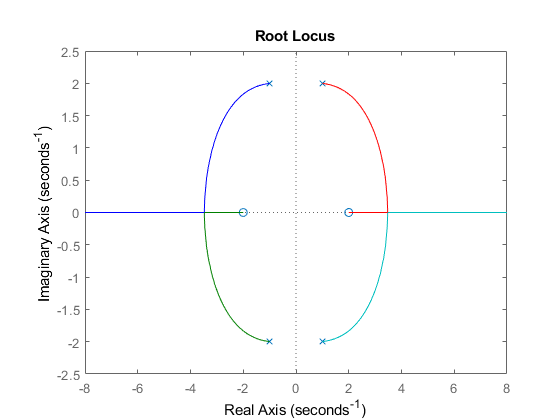
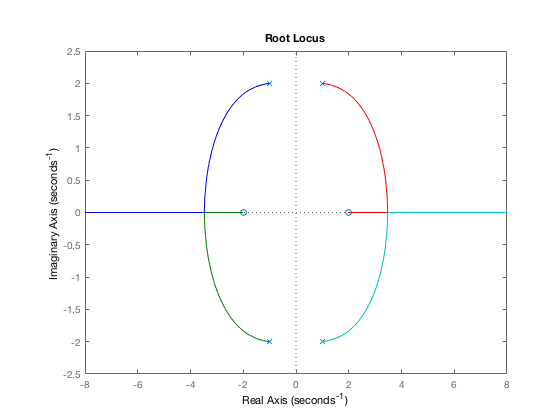
Changes

diff --git a/HW7/html/Problem_2.html b/HW7/html/Problem_2.html
@@ -6,7 +6,7 @@
    <!--
 This HTML was auto-generated from MATLAB code.
 To make changes, update the MATLAB code and republish this document.
-      --><title>Linear Control Systems Homework 7</title><meta name="generator" content="MATLAB 9.5"><link rel="schema.DC" href="http://purl.org/dc/elements/1.1/"><meta name="DC.date" content="2018-11-13"><meta name="DC.source" content="Problem_2.m"><style type="text/css">
+      --><title>Linear Control Systems Homework 7</title><meta name="generator" content="MATLAB 9.3"><link rel="schema.DC" href="http://purl.org/dc/elements/1.1/"><meta name="DC.date" content="2018-11-14"><meta name="DC.source" content="Problem_2.m"><style type="text/css">
 html,body,div,span,applet,object,iframe,h1,h2,h3,h4,h5,h6,p,blockquote,pre,a,abbr,acronym,address,big,cite,code,del,dfn,em,font,img,ins,kbd,q,s,samp,small,strike,strong,sub,sup,tt,var,b,u,i,center,dl,dt,dd,ol,ul,li,fieldset,form,label,legend,table,caption,tbody,tfoot,thead,tr,th,td{margin:0;padding:0;border:0;outline:0;font-size:100%;vertical-align:baseline;background:transparent}body{line-height:1}ol,ul{list-style:none}blockquote,q{quotes:none}blockquote:before,blockquote:after,q:before,q:after{content:'';content:none}:focus{outine:0}ins{text-decoration:none}del{text-decoration:line-through}table{border-collapse:collapse;border-spacing:0}
 
 html { min-height:100%; margin-bottom:1px; }
@@ -66,15 +66,37 @@ table td { padding:7px 5px; text-align:left; vertical-align:top; border:1px soli
 
 
 
-  </style></head><body><div class="content"><h1>Linear Control Systems Homework 7</h1><!--introduction--><div><ul><li>Problem 2</li><li>Author: Xinyi Cai</li></ul></div><!--/introduction--><h2>Contents</h2><div><ul><li><a href="#1">Housekeeping</a></li><li><a href="#2">Solution</a></li></ul></div><h2 id="1">Housekeeping</h2><pre class="codeinput">clear <span class="string">all</span>
+  </style></head><body><div class="content"><h1>Linear Control Systems Homework 7</h1><!--introduction--><div><ul><li>Problem 2</li><li>Author: Xinyi Cai</li></ul></div><!--/introduction--><h2>Contents</h2><div><ul><li><a href="#1">Housekeeping</a></li><li><a href="#2">Solution (The easy way)</a></li><li><a href="#3">Solution (The hard way)</a></li></ul></div><h2 id="1">Housekeeping</h2><pre class="codeinput">clear <span class="string">all</span>
 clc
-</pre><h2 id="2">Solution</h2><pre class="codeinput">syms <span class="string">s</span>
+</pre><h2 id="2">Solution (The easy way)</h2><pre class="codeinput">syms <span class="string">s</span>
 Hs = tf([1 2], [1 2 5]);
 Hs_ = tf([-1 2], [1 -2 5]);
 
 sys = Hs*Hs_;
 rlocus(sys)
-</pre><img vspace="5" hspace="5" src="Problem_2_01.png" alt=""> <p class="footer"><br><a href="https://www.mathworks.com/products/matlab/">Published with MATLAB&reg; R2018b</a><br></p></div><!--
+</pre><img vspace="5" hspace="5" src="Problem_2_01.png" alt=""> <h2 id="3">Solution (The hard way)</h2><pre class="codeinput">[A, B, C, D] = tf2ss([1 2], [1 2 5]);
+Q = [1 0; 0 0];
+R = 0.0001:0.0001:1;
+
+<span class="keyword">for</span> i = 1:length(R)
+    [K, P, E] = lqr(A, B, Q, R(i));
+    roots(i, :) = (eig(A-B*K))';
+<span class="keyword">end</span>
+
+real_num = real(roots(:, 1));
+img_num_1 = imag(roots(:, 1));
+img_num_2 = -img_num_1;
+
+
+figure; hold <span class="string">on</span>
+plot(real_num, img_num_1)
+plot(real_num, img_num_2)
+plot(-real_num, img_num_1)
+plot(-real_num, img_num_2)
+xlim([-8 8])
+ylim([-2.5 2.5])
+grid <span class="string">on</span>
+</pre><img vspace="5" hspace="5" src="Problem_2_02.png" alt=""> <p class="footer"><br><a href="http://www.mathworks.com/products/matlab/">Published with MATLAB&reg; R2017b</a><br></p></div><!--
 ##### SOURCE BEGIN #####
 %% Linear Control Systems Homework 7
 % * Problem 2
@@ -84,12 +106,38 @@ rlocus(sys)
 clear all
 clc
 
-%% Solution
+%% Solution (The easy way)
 syms s
 Hs = tf([1 2], [1 2 5]); 
 Hs_ = tf([-1 2], [1 -2 5]); 
 
 sys = Hs*Hs_; 
 rlocus(sys)
+
+%% Solution (The hard way)
+
+[A, B, C, D] = tf2ss([1 2], [1 2 5]); 
+Q = [1 0; 0 0]; 
+R = 0.0001:0.0001:1; 
+
+for i = 1:length(R)
+    [K, P, E] = lqr(A, B, Q, R(i)); 
+    roots(i, :) = (eig(A-B*K))'; 
+end
+
+real_num = real(roots(:, 1));
+img_num_1 = imag(roots(:, 1)); 
+img_num_2 = -img_num_1; 
+
+
+figure; hold on
+plot(real_num, img_num_1)
+plot(real_num, img_num_2)
+plot(-real_num, img_num_1)
+plot(-real_num, img_num_2)
+xlim([-8 8])
+ylim([-2.5 2.5])
+grid on
+
 ##### SOURCE END #####
 --></body></html>

diff --git a/HW7/Problem_2.m b/HW7/Problem_2.m
@@ -6,10 +6,35 @@
 clear all
 clc
 
-%% Solution
+%% Solution (The easy way)
 syms s
 Hs = tf([1 2], [1 2 5]); 
 Hs_ = tf([-1 2], [1 -2 5]); 
 
 sys = Hs*Hs_; 
 rlocus(sys)
+
+%% Solution (The hard way)
+
+[A, B, C, D] = tf2ss([1 2], [1 2 5]); 
+Q = [1 0; 0 0]; 
+R = 0.0001:0.0001:1; 
+
+for i = 1:length(R)
+    [K, P, E] = lqr(A, B, Q, R(i)); 
+    roots(i, :) = (eig(A-B*K))'; 
+end
+
+real_num = real(roots(:, 1));
+img_num_1 = imag(roots(:, 1)); 
+img_num_2 = -img_num_1; 
+
+
+figure; hold on
+plot(real_num, img_num_1)
+plot(real_num, img_num_2)
+plot(-real_num, img_num_1)
+plot(-real_num, img_num_2)
+xlim([-8 8])
+ylim([-2.5 2.5])
+grid on

diff --git a/Lecture_19_matlab_example_2.m b/Lecture_19_matlab_example_2.m
@@ -1,0 +1,20 @@
+%% Housekeeping
+clear all; clc
+
+%% System Matrics
+A = [0 1; 0 0]; 
+B = [0; 1]; 
+Q = [1 0; 0 0]; 
+R = 1; 
+
+H = [A -B*inv(R)*B'; -Q -A'];
+[M D] = eig(H);
+
+V = M(1:2, 1:2); 
+W = M(3:4, 1:2); 
+
+P = W*inv(V)
+
+P_alt = care(A, B, Q, R) % Continuous Algebraic Ricatti Equation
+
+[K, P_alt_2, E] = lqr(A, B, Q, R)
